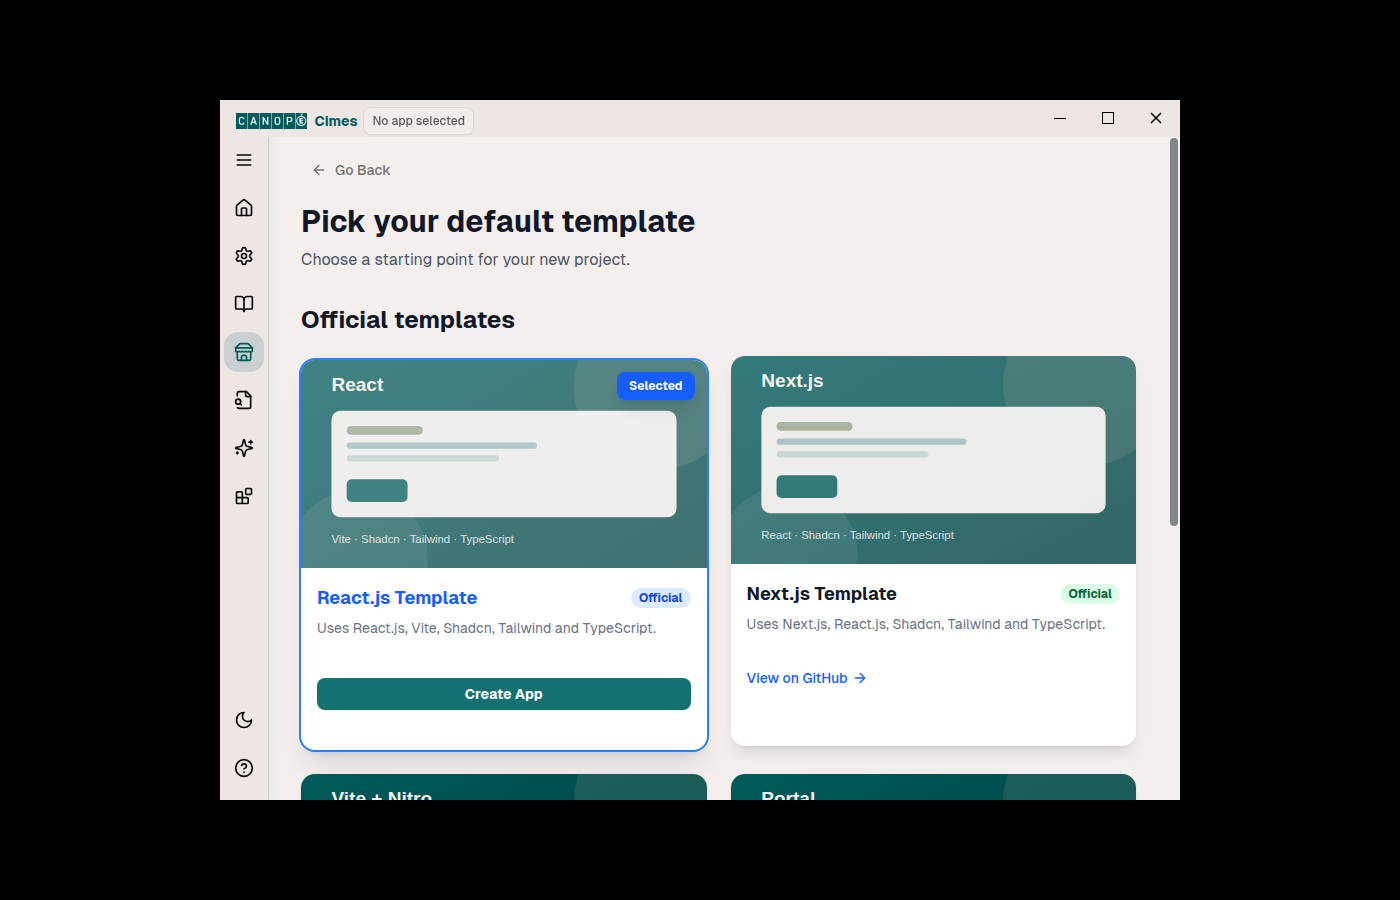
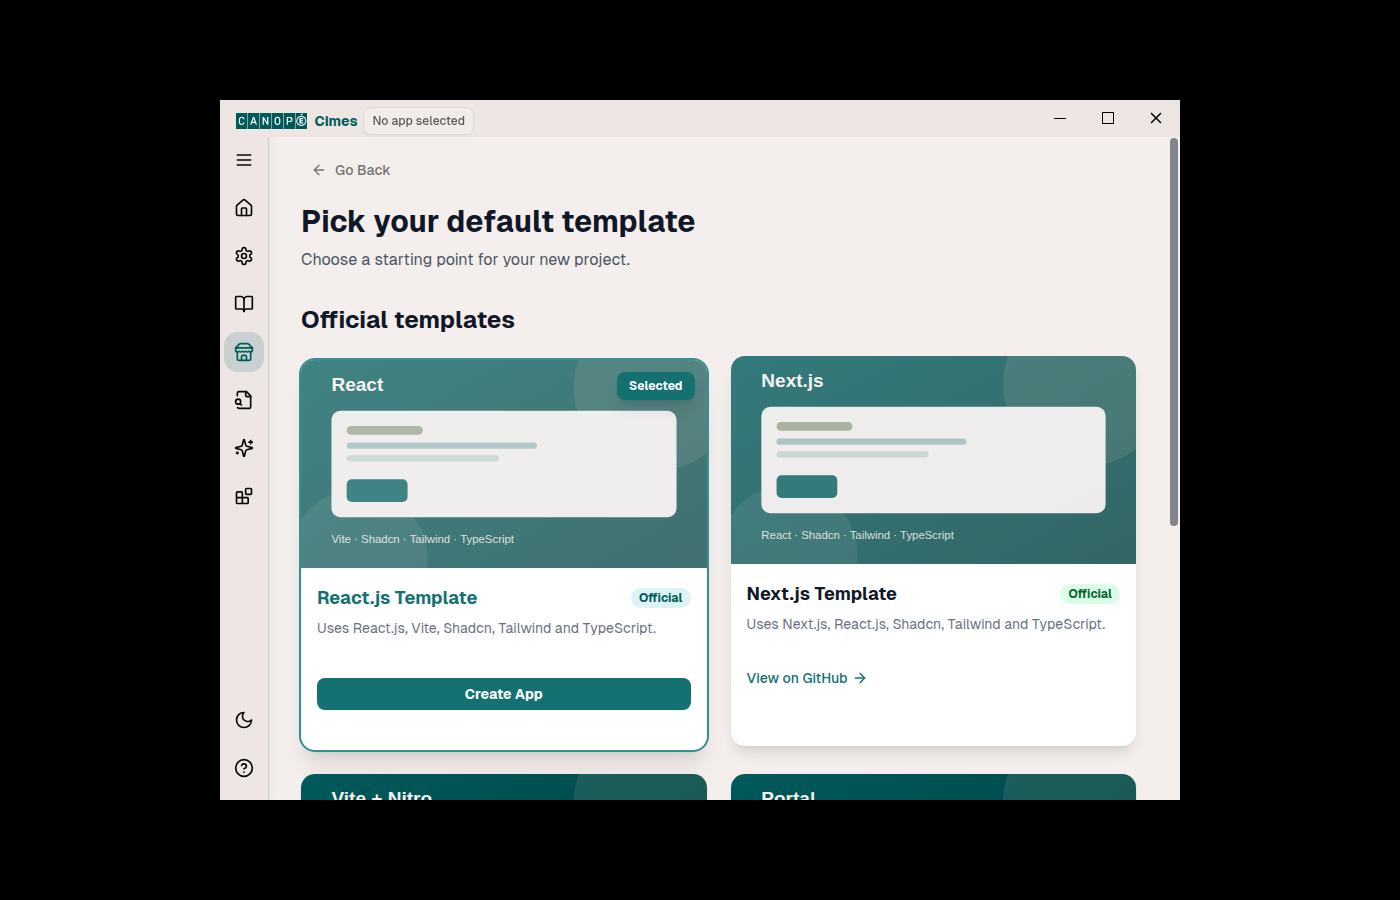
Docs: no Dyad contact, palette

diff --git a/ALBERT_FORK_HANDOFF.md b/ALBERT_FORK_HANDOFF.md
@@ -203,3 +203,13 @@ Le skill intégré `office-fichiers` livre un script Node unique (`office.mjs`, 
 - **Modes** (Paramètres > IA > Base de documents) : « Sur ce poste » (par défaut), « Avec Albert », « Mots seulement ». Chaque vecteur retient son moteur ; changer de mode relance l'analyse avec le nouveau moteur. Au démarrage, un rattrapage calcule les vecteurs manquants.
 - **Mesuré (bac à sable Linux, 4 cœurs)** : 3,4 / 5,4 / 11 passages par seconde avec 1 / 2 / 4 threads (passages de ~900 caractères) ; ~1 Go de RAM résidente pendant le calcul. Le worker utilise au plus 4 threads et laisse un cœur libre. À mesurer sur vos PC : ~1 500 passages (≈ 500 pages) ≈ 2 à 8 minutes la première fois.
 - **Vérifié** : tests unitaires avec le vrai modèle (recherche par le sens sans mot commun, changement de mode) ; application empaquetée Linux : le worker démarre dans l'`utilityProcess`, indexe, et l'agent retrouve un document par le sens. **Non vérifié sous Windows** (WASM + utilityProcess, performances, antivirus).
+
+## Aucun contact avec les serveurs Dyad (mis à jour)
+
+`DYAD_SERVICES_ENABLED = false` (`src/shared/branding.ts`) : le catalogue de modèles, la configuration distante, les gabarits communautaires, le catalogue MCP, la liste d'autorisation pnpm, l'heure serveur du quota et les vérifications de facturation utilisent uniquement des données locales. Autres appels de fond supprimés : Monaco (éditeur de code) est maintenant embarqué au lieu d'être chargé depuis cdn.jsdelivr.net ; les illustrations des gabarits sont dessinées localement (plus d'images github.com/user-attachments) ; le téléchargement du dictionnaire de correction orthographique (Google) est désactivé.
+
+**Vérifié** avec `testing/cimes-e2e/netprobe.mjs` sur l'application empaquetée : les domaines Dyad sont redirigés vers un écouteur local (auto-test réussi) et le journal réseau de Chromium est lu pendant la navigation dans 7 pages : **aucune connexion vers Dyad et aucune requête de fond** (liste vide). Reste dépendant d'un service externe uniquement ce que l'utilisateur déclenche : Albert, outils web de l'agent, serveurs MCP (npm), npm/pnpm pour les apps générées, et le clonage GitHub des gabarits non fournis dans l'application (Next.js, Vite+Nitro, Portal).
+
+## Palette
+
+Les familles Tailwind violet, purple, indigo, fuchsia et blue sont remappées vers le turquoise Canopé dans `src/styles/globals.css` (un seul endroit) ; les couleurs en dur (terminal, pages de retour OAuth) ont été recolorées.
